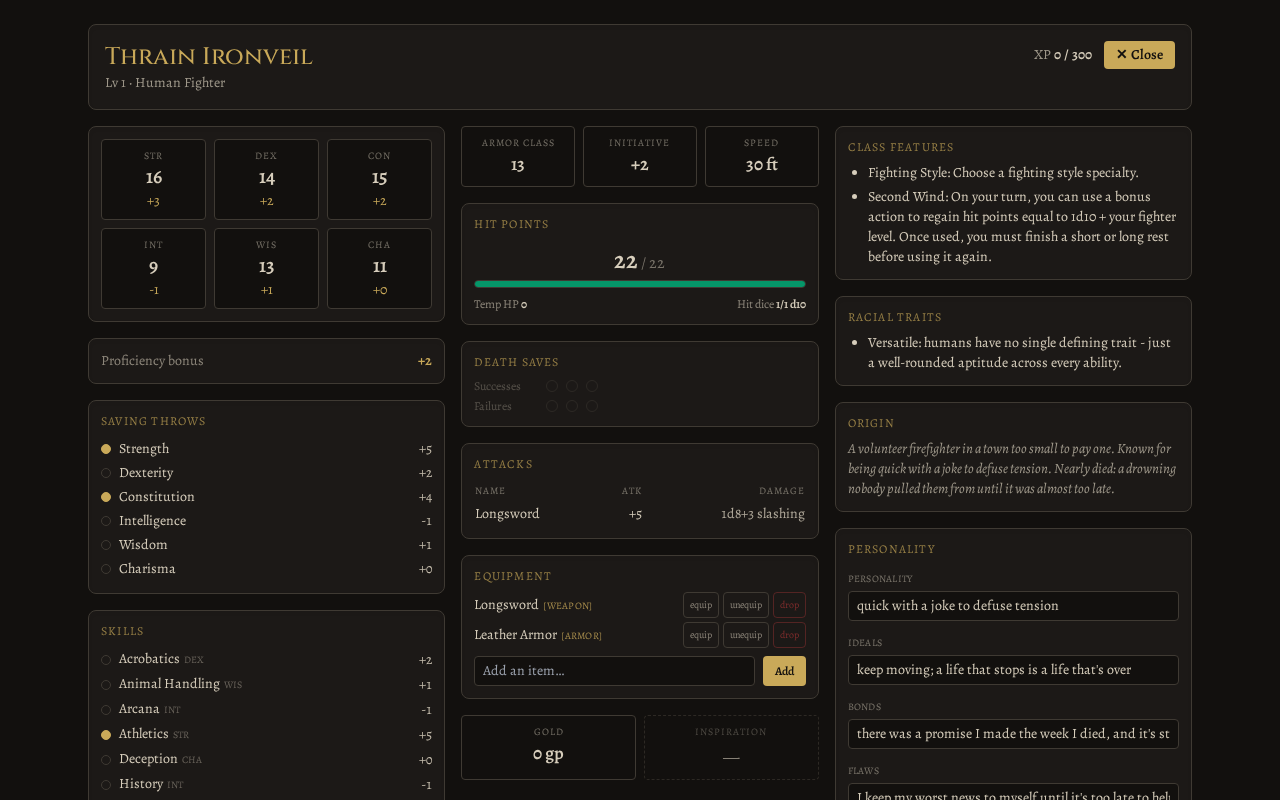
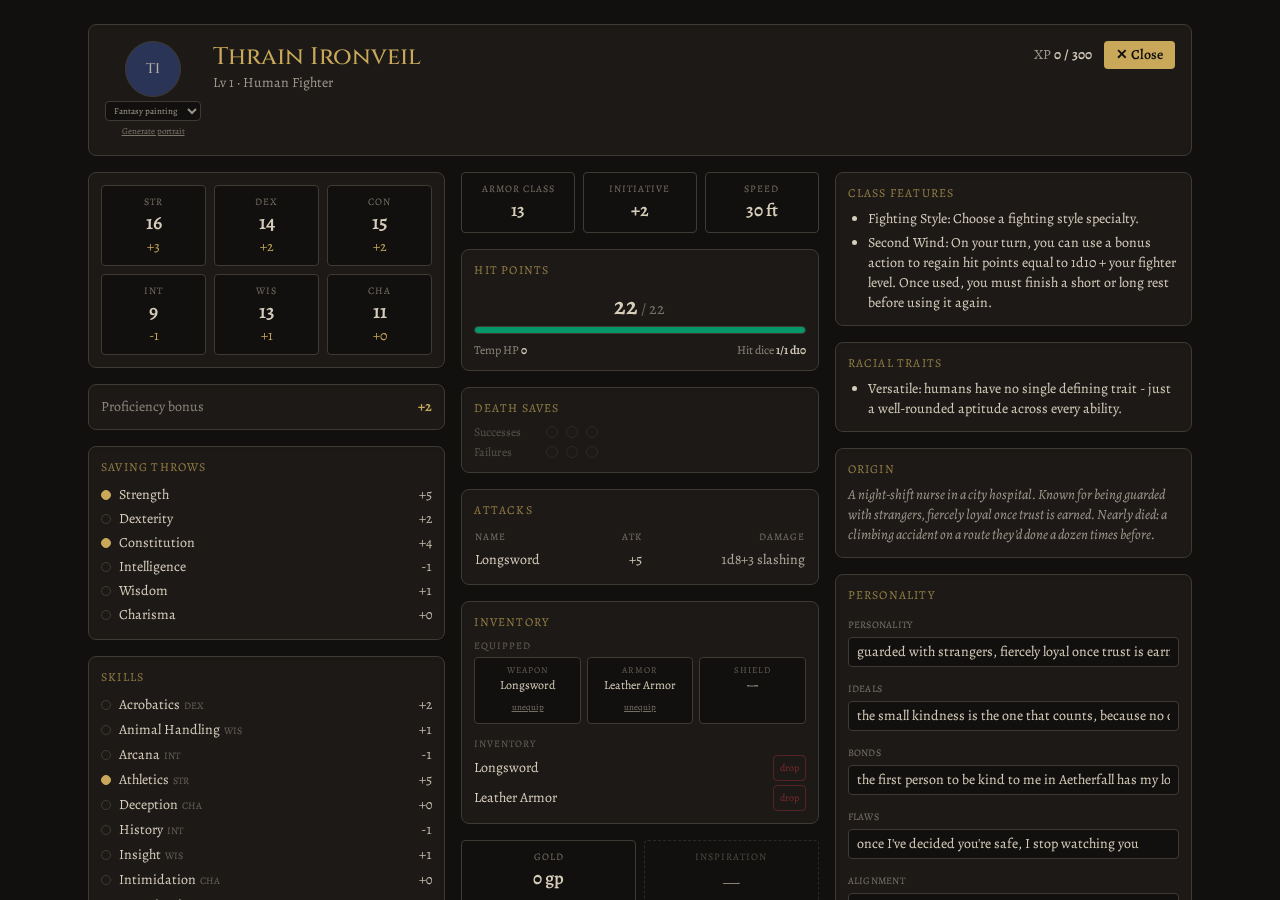
Refresh README screenshots, size them to fill the page
New captures reflecting everything shipped this session: the join
screen (unchanged flow, recaptured for freshness), the character sheet
now showing the avatar/style picker and the Equipped/Inventory split,
and a live played turn (a real natural-20 roll, a real HP change
applied to the sheet, real dialogue) replacing the old static opening-
scene shot.

Screenshots were capped at width="480" - noticeably smaller than a
GitHub README's actual content width. Switched to the same
max-width:100%/900px pattern anvil and vulcan's READMEs already use for
a single hero screenshot, so each one now fills the available space
instead of looking compacted.

Claude-Session: https://claude.ai/code/session_01TXU75FRn8K9cXtQrwbm7wY

diff --git a/README.md b/README.md
@@ -31,7 +31,7 @@ Instead of a single-player chatbot, Oracle is a game engine with an LLM in the G
 - **Campaign memory** (v2): a rolling summary rebuilt every ten resolved turns keeps early-session plot alive after the sliding history window scrolls past it.
 - **Fact ledger** (v2): each turn the DM also records up to three short durable facts — promises made, debts, discoveries — deduped into a persistent per-session list injected back into later turns' context, newest-first with older facts resurfacing when named. A promise from turn 3 still reaches the DM on turn 40; no extra LLM calls spent capturing or recalling it.
 - **Progress clocks** (v2): Blades-style segmented tension meters as server state, ticked by the DM via tool; filling one announces itself.
-- **Structured scenes** (v2): each turn resolves into a `scene_update` — NPCs present, points of interest, up to four suggested actions rendered as clickable chips.
+- **Structured scenes** (v2): each turn resolves into a `scene_update` — NPCs present, points of interest, up to four suggested actions rendered as clickable chips, each tagged with a skill and DC when it represents a real check (a BG3 dialogue-wheel feel: see the stakes before you commit).
 - **Coordinate map** (v2): the DM places locations (with emoji hints) through its world-update tool; clients render the graph with the current location highlighted.
 - **Multi-provider AI** (v2): Ollama (local), Anthropic, or any OpenAI-compatible endpoint (Deepseek, Kimi, Grok, OpenAI).
 - **Character export/import** and transcript download, entirely client-side.
@@ -144,19 +144,19 @@ Container Toolkit on the host — without it Ollama silently runs on CPU).
 
 ## Screenshots
 
-Real captures of the live app — join screen, a live character sheet with real computed stats, and a real DM-narrated opening scene (local Ollama backend).
+Real captures of the live app — join screen, a live character sheet with real computed stats, and an actual played turn (local Ollama backend): a real natural-20 roll, a real HP change applied to the sheet, real dialogue.
 
 <p align="center">
-  <img src="docs/images/screenshots/join.png" alt="Oracle join screen: character name, session id, class/race pickers" width="480"><br>
+  <img src="docs/images/screenshots/join.png" alt="Oracle join screen: character name, session id, class/race pickers" style="max-width: 100%; width: 900px;"><br>
   <sub>Join screen — pick a class/race or import a character, share the session id to play together</sub>
 </p>
 <p align="center">
-  <img src="docs/images/screenshots/character-sheet.png" alt="Oracle character sheet with real computed AC, saves, skills, and attacks" width="480"><br>
-  <sub>Every number on the sheet is computed by the server, not the model</sub>
+  <img src="docs/images/screenshots/character-sheet.png" alt="Oracle character sheet with real computed AC, saves, skills, and attacks, an avatar with a style picker, and the Equipped/Inventory split" style="max-width: 100%; width: 900px;"><br>
+  <sub>Every number on the sheet is computed by the server, not the model — the avatar, style picker, and Equipped/Inventory split are all live</sub>
 </p>
 <p align="center">
-  <img src="docs/images/screenshots/session.png" alt="Oracle live session with a DM-narrated opening scene" width="480"><br>
-  <sub>A live DM-narrated opening scene</sub>
+  <img src="docs/images/screenshots/session.png" alt="Oracle live session: a real natural-20 roll, an applied HP change, and DM dialogue" style="max-width: 100%; width: 900px;"><br>
+  <sub>A real played turn — the natural 20 and the HP change are both genuine engine output, not staged</sub>
 </p>
 
 ## The tool-call reliability investigation
